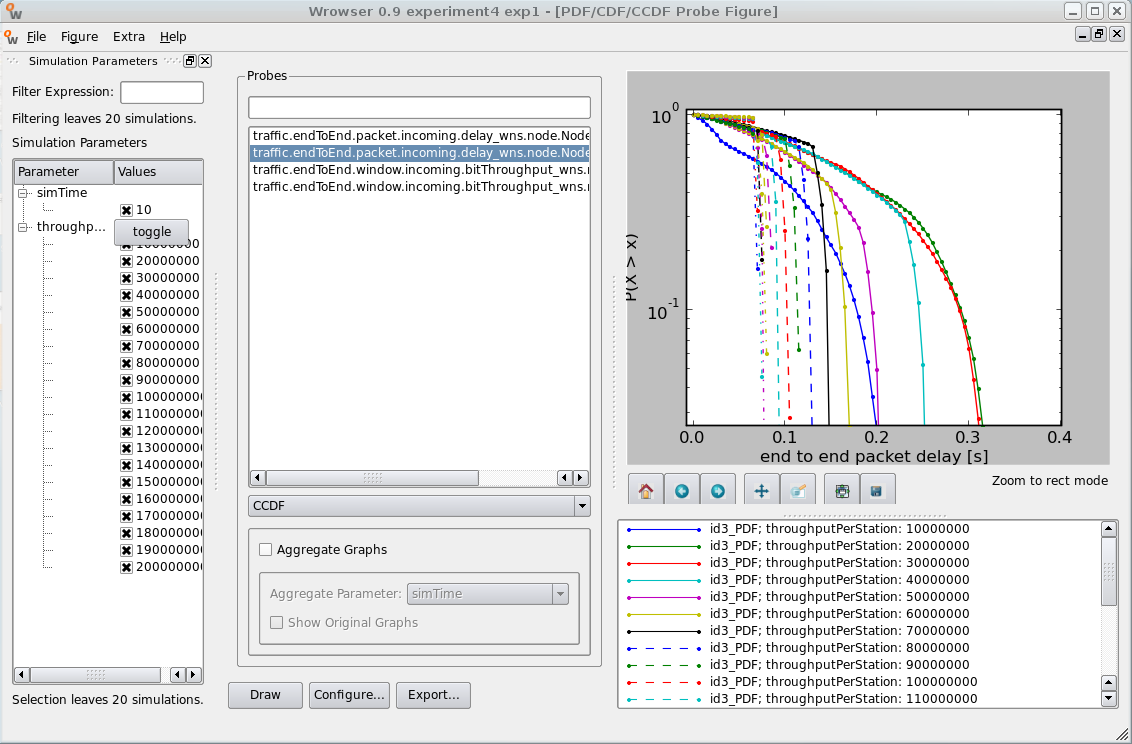
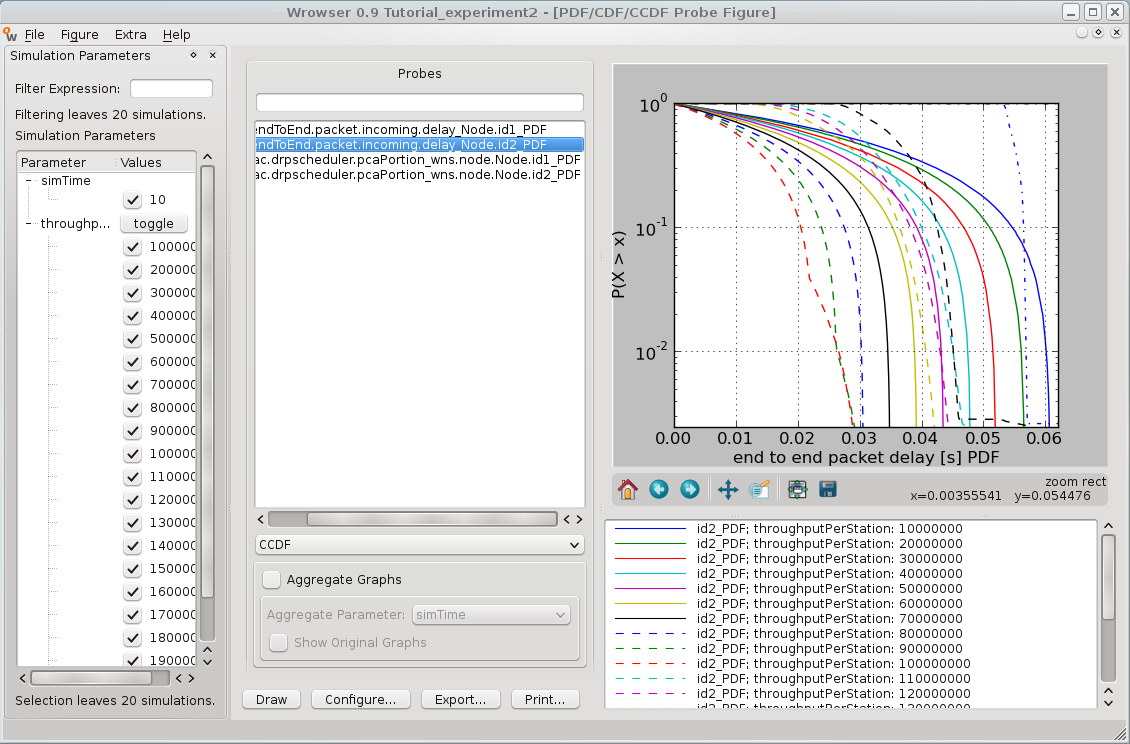
Fixed WiMeMAC-Tutorial bug that occurred after the module was moved to the main branch

Changed region(s): [[0.0, 0.0, 1.0, 1.0], [0.2478, 0.0, 0.7124, 0.0309]]

diff --git a/usersGuide/modules/dll/wimemac/experiment2.rst b/usersGuide/modules/dll/wimemac/experiment2.rst
@@ -65,13 +65,13 @@ The graph from experiment 1 is extended by 10 new measurement points. As you can
 Frame Delay
 ------------
 
-Another interesting aspect besides the saturation point is the frame delay. The frame delay is the time between the generation of a data frame and its successful reception. It is an indicator for how long the frame had to be queued before it could be transmitted. To display this delay with the Wrowser, first select ``Figure-> New-> PDF/CDF/CCDF``. Select ``traffic.endToEnd.packet.incoming.delay_wns.node.Node.id_X_PDF`` (where X is the ID of the receiving node) from the probe list and select CCDF from the drop-down list below the probe list. Now click the ``Configure...`` button and set the Y-Axis to a logarithmic scale (lg). After clicking ``OK`` and ``Draw`` you should see a graph which has only some curves at the left edge.
+Another interesting aspect besides the saturation point is the frame delay. The frame delay is the time between the generation of a data frame and its successful reception. It is an indicator for how long the frame had to be queued before it could be transmitted. To display this delay with the Wrowser, first select ``Figure-> New-> PDF/CDF/CCDF``. Select ``traffic.endToEnd.packet.incoming.delay_wns.node.Node.id_X_PDF`` (where X is the ID of the receiving node) from the probe list and select ``CCDF`` from the drop-down list below the probe list. Now click the ``Configure...`` button and set the Y-Axis to a logarithmic scale (lg). After clicking ``OK`` and ``Draw`` you should see a graph which has only some curves at the left edge.
 
 To get a better view at the curves, zoom into the left part of the graph by clicking on the ``zoom to rectangle`` button below the graph and mark the left part of the diagram. Now you have a better view on the interesting part of the graph:
 
 .. figure:: images/experiment2-Wrowser_delayZoomed.png
    :align: center
 
-With the arrow buttons next to the zoom button, you can switch between your current view and your previous views. The X-Axis shows the frame delay in seconds, while the Y-Axis shows the propability that the delay is higher than the X-value. Every curve in this diagram represents a simulation with a specific value for ``throughputPerStation``. The frame delay goes up to 0.3 seconds in some scenarios. It is also noticable that the delay is smaller the higher the value of ``throughputPerStation`` is. This appearance is further analyzed and explained in experiment 3.
+With the arrow buttons next to the zoom button, you can switch between your current view and your previous views. The X-Axis shows the frame delay in seconds, while the Y-Axis shows the propability that the delay is higher than the X-value. Every curve in this diagram represents a simulation with a specific value for ``throughputPerStation``. The frame delay goes up to 0.06 seconds in some scenarios. It is also noticable that the delay is smaller the higher the value of ``throughputPerStation`` is (exept for the oversaturated transmissions). This appearance is further analyzed and explained in experiment 3.
 
 In the following experiment you will see how to alter the delay and the saturation point by using different reservation strategies.

diff --git a/usersGuide/modules/dll/wimemac/experiment6.rst b/usersGuide/modules/dll/wimemac/experiment6.rst
@@ -111,14 +111,14 @@ At first, uncheck the checkbox next to ``4IA-Random-MAS`` since the graphs that 
 
     In this scenario, the odd indexes represent the receiving node of each connection. Since we measure the incoming throughput, it would make no sense to include the even indexes who have only outgoing data.
 
-The most conspicuous aspect of these results is that some stations reach a lower throughput despite a higher offered load. The reason for this is that the ``useRelinquishRequest`` parameter in this configuration is set to false. Stations that start to transmit earlier reserve more MASs if the offered load increases, so other stations have less free MASs to set up their own reservations. This effect starts at a throughput of 8 Mb/s per link. Since some stations are suppressed at higher values for ``offeredLoadpLink``, this is the saturation point for this scenario. The maximum throughput for the whole system (25 connections) is 25*8 Mb/s = 200 Mb/s.
+The most conspicuous aspect of these results is that some stations reach a lower throughput despite a higher offered load. The reason for this is that the ``useRelinquishRequest`` parameter in this configuration is set to false. Stations that start to transmit earlier reserve more MASs if the offered load increases, so other stations have less free MASs to set up their own reservations. This effect starts at a throughput of 8.5 Mb/s per link. Since some stations are suppressed at higher values for ``offeredLoadpLink``, this is the saturation point for this scenario. The maximum throughput for the whole system (25 connections) is 25*8.5 Mb/s = 212.5 Mb/s.
 
 Now let's see how the scenario went with interference aware scheduling. Check the checkbox next to ``2Random-MAS`` and uncheck ``4IA-Random-MAS``. Draw the results .
 
 .. figure:: images/experiment6-Wrowser_resultsWithIA.png
    :align: center
 
-At first appearance, these results look similar to the previous. But if you look closer, it is noticable that no station is suppressed before 12.5 Mbit throughput per link. That means, the complete system throughput is 312.5 Mbit. As you can see, the ``interferenceAwareness`` feature increased the maximum throughput by 112.5 Mb/s.
+At first appearance, these results look similar to the previous. But if you look closer, it is noticable that no station is suppressed before 12.5 Mbit throughput per link. That means, the complete system throughput is 312.5 Mbit. As you can see, the ``interferenceAwareness`` feature increased the maximum throughput by 100 Mb/s.
 The results depend on the wall attenuation. With a varying wall attenuation, different parts of the WPANS overlap and it is expected that the capacity gain using interference awareness is maximized for a certain attenuation.
 
 

diff --git a/usersGuide/modules/dll/wimemac/experiment1.rst b/usersGuide/modules/dll/wimemac/experiment1.rst
@@ -204,7 +204,7 @@ On the left side of the Wrowser window, the simulation parameters are listed. Do
 .. figure:: images/experiment1-Wrowser_configuration.png
    :align: center
 
-In this window, select 'throughputPerStation' as the simulation parameter. This will be displayed in the X-Axis. To select the Y-Axis parameter, click on the 'Y-Axis'-Tab and select ``wimemac.traffic.incoming.throughput_wns.node.Node.id_X_Moments``. X must be replaced with the ID of the receiving station. This probe shows the incoming data throughput of the receiving node, which is the amount of data that has reached its destination. In this scenario, the receiving station is the one with the higher ID. Now, select ``Draw``. If everything went fine, the graph looks like this:
+In this window, select 'throughputPerStation' as the simulation parameter. This will be displayed in the X-Axis. To select the Y-Axis parameter, click on the 'Y-Axis'-Tab and select ``traffic.endToEnd.window.incoming.bitThroughput_Node.id_X_Moments``. X must be replaced with the ID of the receiving station. This probe shows the incoming data throughput of the receiving node, which is the amount of data that has reached its destination. In this scenario, the receiving station is the one with the higher ID. Now, select ``Draw``. If everything went fine, the graph looks like this:
 
 
 .. figure:: images/experiment1-Wrowser_results.png
